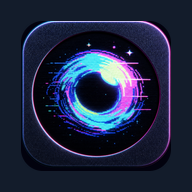
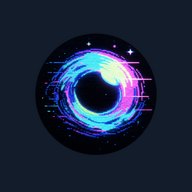
Add live storage and user status

Changed region(s): [[0.0938, 0.0938, 0.9062, 0.9062], [0.25, 0.25, 0.2812, 0.2812]]

diff --git a/src/components/Layout/SiteStatusBar.tsx b/src/components/Layout/SiteStatusBar.tsx
@@ -1,0 +1,98 @@
+import defineMessages from '@app/utils/defineMessages';
+import { CircleStackIcon, UsersIcon } from '@heroicons/react/24/solid';
+import { useIntl } from 'react-intl';
+import useSWR from 'swr';
+
+interface SiteStatus {
+  onlineUsers: number;
+  storage: {
+    path: string;
+    freeSpace: number;
+    totalSpace: number;
+  } | null;
+}
+
+const messages = defineMessages('components.Layout.SiteStatusBar', {
+  movieStorage: '{drive}movie storage',
+  free: '{free} free',
+  online: '{count, plural, one {# user online} other {# users online}}',
+});
+
+const formatBytes = (bytes: number): string => {
+  const units = ['B', 'KB', 'MB', 'GB', 'TB', 'PB'];
+  let value = bytes;
+  let unit = 0;
+  while (value >= 1000 && unit < units.length - 1) {
+    value /= 1000;
+    unit++;
+  }
+  return `${value.toFixed(value >= 100 ? 0 : 1)} ${units[unit]}`;
+};
+
+const SiteStatusBar = () => {
+  const intl = useIntl();
+  const { data } = useSWR<SiteStatus>('/api/v1/service/status', {
+    refreshInterval: 30000,
+  });
+
+  if (!data) return null;
+
+  const usedPercent = data.storage?.totalSpace
+    ? Math.min(
+        100,
+        Math.max(
+          0,
+          ((data.storage.totalSpace - data.storage.freeSpace) /
+            data.storage.totalSpace) *
+            100
+        )
+      )
+    : 0;
+  const driveLabel = data.storage?.path.match(/^([a-zA-Z]:)/)?.[1];
+
+  return (
+    <div className="mb-4 flex flex-wrap items-center justify-between gap-3 rounded-lg border border-cyan-500/20 bg-gray-800/70 px-4 py-2.5 text-sm shadow-lg backdrop-blur">
+      {data.storage && (
+        <div className="flex min-w-0 flex-1 items-center gap-3">
+          <CircleStackIcon className="h-5 w-5 shrink-0 text-cyan-300" />
+          <div className="min-w-0 flex-1">
+            <div className="flex items-center justify-between gap-3">
+              <span className="truncate font-medium text-gray-100">
+                {intl.formatMessage(messages.movieStorage, {
+                  drive: driveLabel ? `${driveLabel} ` : '',
+                })}
+              </span>
+              <span className="shrink-0 font-semibold text-cyan-200">
+                {intl.formatMessage(messages.free, {
+                  free: formatBytes(data.storage.freeSpace),
+                })}
+              </span>
+            </div>
+            <div className="mt-1 h-1.5 overflow-hidden rounded-full bg-gray-700">
+              <div
+                className={`h-full rounded-full ${
+                  usedPercent >= 90
+                    ? 'bg-red-500'
+                    : usedPercent >= 75
+                      ? 'bg-amber-400'
+                      : 'bg-gradient-to-r from-cyan-400 to-purple-500'
+                }`}
+                style={{ width: `${usedPercent}%` }}
+              />
+            </div>
+          </div>
+        </div>
+      )}
+      <div className="flex shrink-0 items-center gap-2 rounded-full bg-gray-900/70 px-3 py-1.5 font-medium text-gray-100">
+        <span className="relative flex h-2.5 w-2.5">
+          <span className="absolute inline-flex h-full w-full animate-ping rounded-full bg-green-400 opacity-60" />
+          <span className="relative inline-flex h-2.5 w-2.5 rounded-full bg-green-400" />
+        </span>
+        <UsersIcon className="h-4 w-4 text-green-300" />
+        {intl.formatMessage(messages.online, { count: data.onlineUsers })}
+      </div>
+    </div>
+  );
+};
+
+export default SiteStatusBar;

diff --git a/server/routes/service.ts b/server/routes/service.ts
@@ -5,11 +5,66 @@ import type {
   ServiceCommonServer,
   ServiceCommonServerWithDetails,
 } from '@server/interfaces/api/serviceInterfaces';
+import { getOnlineUserCount } from '@server/lib/onlineUsers';
 import { getSettings } from '@server/lib/settings';
 import logger from '@server/logger';
 import { Router } from 'express';
 
 const serviceRoutes = Router();
+
+serviceRoutes.get('/status', async (_req, res) => {
+  const settings = getSettings();
+  const radarrSettings =
+    settings.radarr.find((server) => server.isDefault && !server.is4k) ??
+    settings.radarr.find((server) => !server.is4k) ??
+    settings.radarr[0];
+
+  let storage: {
+    path: string;
+    freeSpace: number;
+    totalSpace: number;
+  } | null = null;
+
+  if (radarrSettings) {
+    try {
+      const radarr = new RadarrAPI({
+        apiKey: radarrSettings.apiKey,
+        url: RadarrAPI.buildUrl(radarrSettings, '/api/v3'),
+      });
+      const rootFolders = await radarr.getRootFolders(60);
+      const preferredRoot =
+        rootFolders.find((root) => /^[oO]:[\\/]/.test(root.path)) ??
+        rootFolders.find(
+          (root) =>
+            root.path.toLowerCase() ===
+            radarrSettings.activeDirectory.toLowerCase()
+        ) ??
+        rootFolders[0];
+
+      if (
+        preferredRoot &&
+        Number.isFinite(preferredRoot.freeSpace) &&
+        Number.isFinite(preferredRoot.totalSpace)
+      ) {
+        storage = {
+          path: preferredRoot.path,
+          freeSpace: preferredRoot.freeSpace,
+          totalSpace: preferredRoot.totalSpace,
+        };
+      }
+    } catch (error) {
+      logger.debug('Unable to retrieve movie storage status from Radarr.', {
+        label: 'API',
+        errorMessage: error.message,
+      });
+    }
+  }
+
+  return res.json({
+    onlineUsers: getOnlineUserCount(),
+    storage,
+  });
+});
 
 serviceRoutes.get('/radarr', async (req, res) => {
   const settings = getSettings();

diff --git a/src/components/Layout/index.tsx b/src/components/Layout/index.tsx
@@ -3,6 +3,7 @@ import MobileMenu from '@app/components/Layout/MobileMenu';
 import PullToRefresh from '@app/components/Layout/PullToRefresh';
 import SearchInput from '@app/components/Layout/SearchInput';
 import Sidebar from '@app/components/Layout/Sidebar';
+import SiteStatusBar from '@app/components/Layout/SiteStatusBar';
 import UserDropdown from '@app/components/Layout/UserDropdown';
 import UserWarnings from '@app/components/Layout/UserWarnings';
 import useLocale from '@app/hooks/useLocale';
@@ -128,6 +129,7 @@ const Layout = ({ children }: LayoutProps) => {
         <main className="relative top-16 z-0 focus:outline-none" tabIndex={0}>
           <div className="mb-6">
             <div className="max-w-8xl mx-auto px-4">
+              <SiteStatusBar />
               <UserWarnings />
               {children}
             </div>

diff --git a/server/routes/index.ts b/server/routes/index.ts
@@ -8,6 +8,7 @@ import type {
 import { getRepository } from '@server/datasource';
 import DiscoverSlider from '@server/entity/DiscoverSlider';
 import type { StatusResponse } from '@server/interfaces/api/settingsInterfaces';
+import { recordUserActivity } from '@server/lib/onlineUsers';
 import { Permission } from '@server/lib/permissions';
 import { getSettings } from '@server/lib/settings';
 import logger from '@server/logger';
@@ -47,6 +48,12 @@ import user from './user';
 const router = Router();
 
 router.use(checkUser);
+router.use((req, _res, next) => {
+  if (req.user) {
+    recordUserActivity(req.user.id);
+  }
+  next();
+});
 
 router.get<unknown, StatusResponse>('/status', async (req, res) => {
   const githubApi = new GithubAPI();

diff --git a/server/lib/onlineUsers.ts b/server/lib/onlineUsers.ts
@@ -1,0 +1,18 @@
+const ONLINE_WINDOW_MS = 2 * 60 * 1000;
+const activeUsers = new Map<number, number>();
+
+export const recordUserActivity = (userId: number): void => {
+  activeUsers.set(userId, Date.now());
+};
+
+export const getOnlineUserCount = (): number => {
+  const cutoff = Date.now() - ONLINE_WINDOW_MS;
+
+  for (const [userId, lastSeen] of activeUsers) {
+    if (lastSeen < cutoff) {
+      activeUsers.delete(userId);
+    }
+  }
+
+  return activeUsers.size;
+};

diff --git a/server/api/servarr/base.ts b/server/api/servarr/base.ts
@@ -144,12 +144,14 @@ class ServarrBase<QueueItemAppendT> extends ExternalAPI {
     }
   };
 
-  public getRootFolders = async (): Promise<RootFolder[]> => {
+  public getRootFolders = async (
+    cacheSeconds = 3600
+  ): Promise<RootFolder[]> => {
     try {
       const data = await this.getRolling<RootFolder[]>(
         `/rootfolder`,
         undefined,
-        3600
+        cacheSeconds
       );
 
       return data;

diff --git a/src/components/Common/BrandLogo/index.tsx b/src/components/Common/BrandLogo/index.tsx
@@ -21,7 +21,7 @@ const BrandLogo = ({ variant = 'full', className = '' }: BrandLogoProps) => (
         alt=""
         fill
         sizes={variant === 'stacked' ? '112px' : '64px'}
-        className="object-contain"
+        className="rounded-[20%] object-contain drop-shadow-[0_0_8px_rgba(34,211,238,0.3)]"
         priority
       />
     </div>
